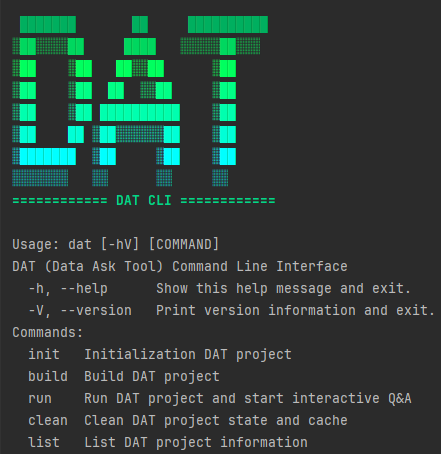
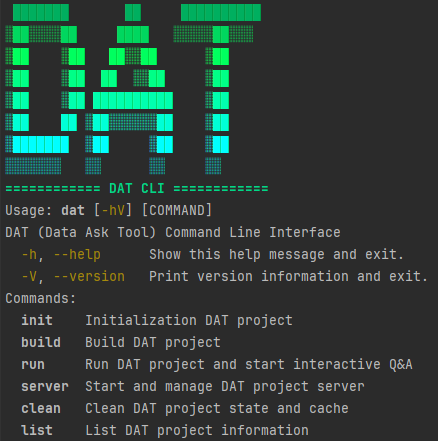
Chore/chore (#19)
* fix: the naming notations issue of semantic model name as table name in semantic SQL

* chore: update 'model' configuration example in MODEL_GUIDE.md

* chore: regular expressions are constant

* chore: update dat cli image

Changed region(s): [[0.0, 0.0, 0.9795, 1.0], [0.1781, 0.7664, 0.9498, 1.0]]

diff --git a/dat-cli/src/main/java/ai/dat/cli/commands/InitCommand.java b/dat-cli/src/main/java/ai/dat/cli/commands/InitCommand.java
@@ -54,7 +54,8 @@ public class InitCommand implements Callable<Integer> {
     private final static String PROJECT_CONFIG_TEMPLATE_FILE_NAME =
             ProjectUtil.PROJECT_CONFIG_FILE_NAME_YAML + ".template";
 
-    private static final Pattern PROJECT_NAME_PATTERN = Pattern.compile("^[a-zA-Z][A-Za-z0-9_\\-]*$");
+    private static final String PROJECT_NAME_REGEX = "^[a-zA-Z][A-Za-z0-9_\\-]*$";
+    private static final Pattern PROJECT_NAME_PATTERN = Pattern.compile(PROJECT_NAME_REGEX);
     private static final InputProcessor PROCESSOR = new InputProcessor();
 
     private static final String TEMPLATE_DIR_NAME = "project_init_template";
@@ -155,7 +156,7 @@ public class InitCommand implements Callable<Integer> {
             if (name.isEmpty()) continue;
             if (!isProjectName(name)) {
                 System.out.println(AnsiUtil.string("@|fg(red) ⚠ Project name needs to conform " +
-                        "'^[a-zA-Z][A-Za-z0-9_\\-]*$' regular!|@"));
+                        "'" + PROJECT_NAME_REGEX + "' regular expression!|@"));
                 continue;
             }
             projectConfig.setName(name);
@@ -213,7 +214,7 @@ public class InitCommand implements Callable<Integer> {
         while (true) {
             String choice = PROCESSOR.readLine(AnsiUtil.string(
                     "@|fg(yellow) Please select a provider|@" + hint + ": "));
-            if(choice.isEmpty() && providers.size()== 1){
+            if (choice.isEmpty() && providers.size() == 1) {
                 choice = "1";
             }
             String provider = providerMap.get(choice);

diff --git a/dat-cli/src/main/resources/project_init_template/MODEL_GUIDE.md b/dat-cli/src/main/resources/project_init_template/MODEL_GUIDE.md
@@ -85,10 +85,18 @@ semantic_models:
 
 #### 方式三：配置库表名
 
+完整表名
 ```yaml
 semantic_models:
   - name: covid_cases
     model: covid.covid_cases
+```
+
+简单表名
+```yaml
+semantic_models:
+  - name: covid_cases
+    model: covid_cases
 ```
 
 #### 方式四：不配置model
@@ -125,7 +133,7 @@ semantic_models:
 | **description** | 实体的描述                       | 可选 | String |
 | **alias**       | 实体的别名                       | 可选 | String |
 | **expr**        | 引用现有列或使用SQL表达式创建新列          | 可选 | String |
-| **data_type**   | 数据类型                        | 可选 | String |
+| **data_type**   | 数据类型（这因数据库而异）          | 可选 | String |
 
 #### 实体配置示例
 
@@ -182,7 +190,7 @@ entities:
 | **alias** | 维度的别名 | 可选 | String |
 | **expr** | 定义底层列或SQL查询 | 可选 | String |
 | **enum_values** | 分类维度的枚举值定义 | 可选 | Array  |
-| **data_type** | 数据类型 | 可选 | String |
+| **data_type** | 数据类型（这因数据库而异） | 可选 | String |
 
 #### 分类维度示例
 
@@ -264,7 +272,7 @@ dimensions:
 | **description** | 描述计算的度量 | 可选 | String |
 | **alias** | 度量的别名 | 可选 | String |
 | **expr** | 引用现有列或使用SQL表达式创建新列 | 可选 | String |
-| **data_type** | 数据类型 | 可选 | String |
+| **data_type** | 数据类型（这因数据库而异） | 可选 | String |
 | **agg** | 聚合类型 | 可选 | String |
 | **agg_time_dimension** | 时间字段，默认为语义模型的默认聚合时间维度 | 可选 | String |
 | **non_additive_dimension** | 为无法按某些维度聚合的度量指定非加性维度 | 可选 | Object |
